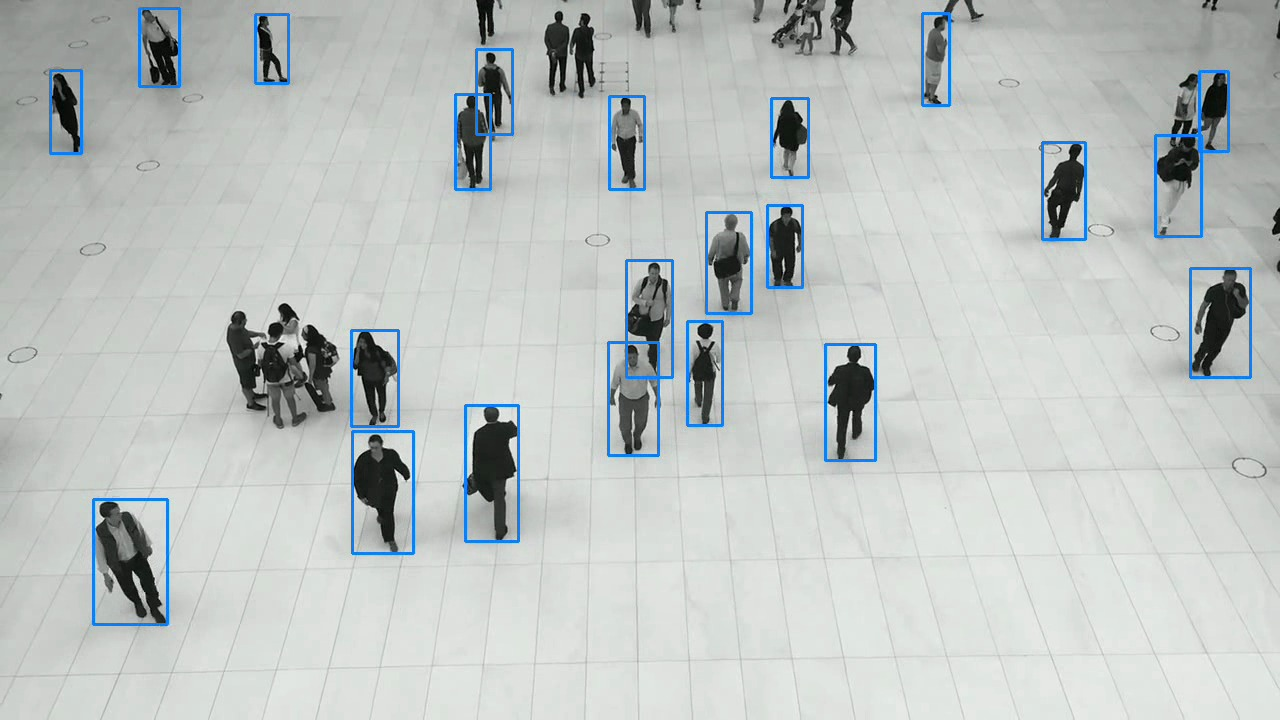
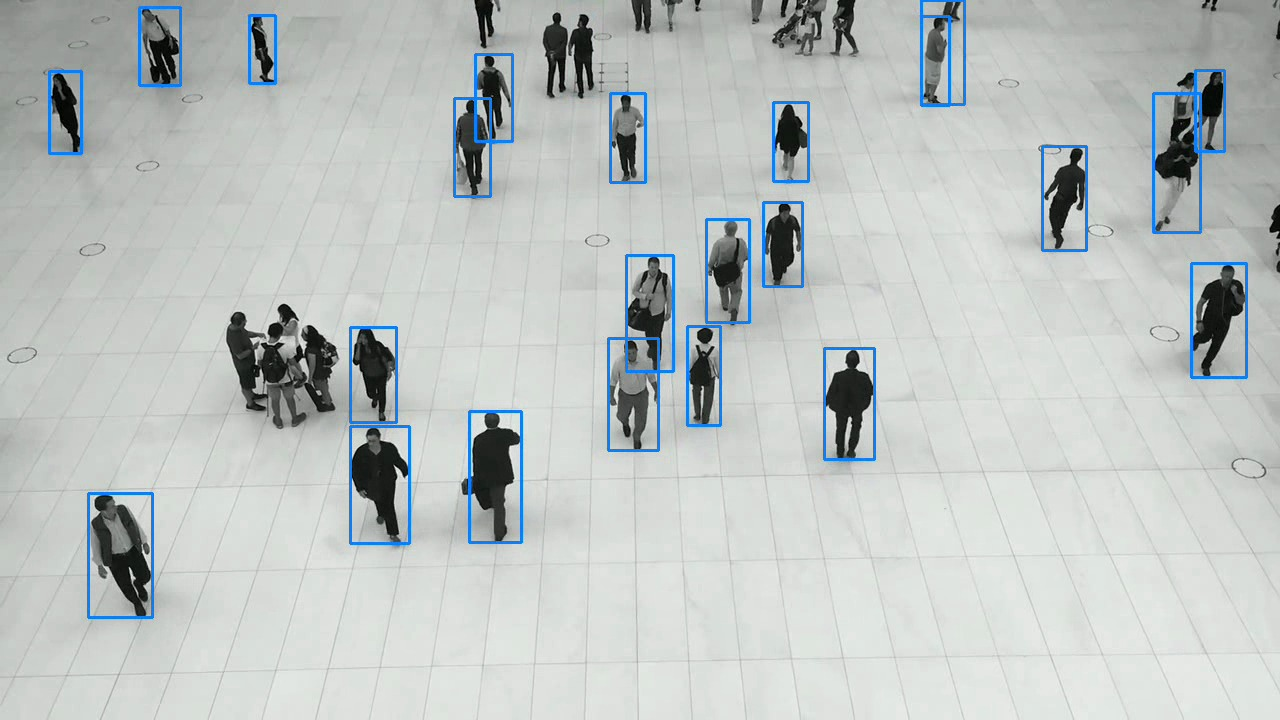
Update utilities docs and changelog for buffer, transforms and sliced inference fixes.

diff --git a/docs/utilities/buffer.md b/docs/utilities/buffer.md
@@ -8,8 +8,8 @@ keywords: pixelflow, frame buffer, temporal context, video delay, moving average
 
 Some decisions about a frame are easier with the frames around it: a count that jumps from one
 frame to the next, a detection that appears for a single frame. `pf.Buffer` keeps the last few
-frames with their results and hands you the one in the middle, a few frames late. For that
-frame, you have both the frames before it and the frames after it.
+frames with their results and hands each one back a few frames late, once the frames after it
+have arrived. For that frame, you have both the frames before it and the frames after it.
 
 ```python
 import pixelflow as pf
@@ -18,6 +18,15 @@ from mayaku import from_pretrained
 predictor = from_pretrained("mayaku-n-det")
 person = predictor.class_names.index("Person")
 buffer = pf.Buffer(frames=5)
+counts = []
+
+
+def process(people, frame):
+    context = buffer.get_temporal_context()
+    window = context["past_results"] + [people] + context["future_results"]
+    counts.append((len(people), sum(len(d) for d in window) / len(window)))
+    writer.write(pf.annotate.box(frame, people))
+
 
 video = pf.VideoReader("crowd.mp4")
 with pf.VideoWriter("crowd-buffered.mp4", like=video) as writer:
@@ -27,68 +36,72 @@ with pf.VideoWriter("crowd-buffered.mp4", like=video) as writer:
         people = detections.filter_by_confidence(0.5).filter_by_class_id(person)
 
         people, frame = buffer.update(people, frame)
-        if not buffer.is_full:
-            continue
+        if frame is not None:
+            process(people, frame)
 
-        context = buffer.get_temporal_context()
-        window = context["past_results"] + [people] + context["future_results"]
-        average = sum(len(d) for d in window) / len(window)
-        if buffer.frames_processed % 50 == 0:
-            print(f"{len(people)} people in this frame, {average:.1f} on average")
+    for people, frame in buffer.flush():
+        process(people, frame)
 
-        frame = pf.annotate.box(frame, people)
-        writer.write(frame)
+print(writer.frames_written)
+for index in (0, 100, 200, 340):
+    count, average = counts[index]
+    print(f"frame {index}: {count} people, {average:.1f} on average")
 ```
 
 ```text
-21 people in this frame, 22.6 on average
-29 people in this frame, 29.2 on average
-23 people in this frame, 23.0 on average
-27 people in this frame, 27.6 on average
-21 people in this frame, 21.6 on average
-16 people in this frame, 16.4 on average
+341
+frame 0: 24 people, 23.7 on average
+frame 100: 29 people, 28.8 on average
+frame 200: 26 people, 26.2 on average
+frame 340: 21 people, 21.6 on average
 ```
 
 ![A frame of a crowded hall seen from above, with a box around each person](/docs/assets/buffer.jpg)
 
-`buffer.update(results, frame)` stores the new frame and its results, and returns the frame and
-results from the middle of the buffer: with `frames=5`, the ones from 2 frames ago. They always
-belong together, so the boxes you draw are the right ones for the frame you draw on.
+`buffer.update(results, frame)` stores the new frame and its results, and returns a frame and
+its results from earlier: with `frames=5`, the ones from 2 frames ago. They always belong
+together, so the boxes you draw are the right ones for the frame you draw on.
 
-`get_temporal_context()` returns the whole buffer around that middle frame. Above, the count of
-each frame is averaged with the 2 frames before and the 2 after. Because the window is centered
-on the frame, the average does not lag behind the crowd, as an average of past frames only
-would.
+`get_temporal_context()` returns the buffer around that frame. Above, the count of each frame is
+averaged with the 2 frames before it and the 2 after. Because the window is centered on the
+frame, the average does not lag behind the crowd, as an average of past frames only would.
 
 ## The first and last frames
 
-Until the buffer is full, `update` returns a black frame and empty `Detections`: with
-`frames=5`, for the first 4 calls. Skip them with `if not buffer.is_full: continue`, as above,
-or the output video starts with black frames.
+For the first 2 calls, nothing is ready: frame 0 needs frames 1 and 2 after it. `update` returns
+`(None, None)`, hence `if frame is not None`. From the third call on, it returns frames 0, 1,
+2 and so on, in order.
 
-The buffer does not return the first 2 and the last 2 frames of the video: the first ones were
-only ever "past" for frame 2, and the last ones are still in the buffer when the loop ends.
-Above, the output video has 337 of the 341 frames.
+When the video ends, the last 2 frames are still in the buffer, waiting for frames that will
+not come. `flush()` returns them. With both, every frame comes out once: above, 341 frames in,
+341 out.
+
+Near the start, a frame has fewer frames before it, and near the end, fewer after it: frame 0
+is averaged over 3 frames, not 5. If your processing needs the full window, check the length
+of `past_results` and `future_results`. `pf.smooth` does this: it smooths only frames with a
+full window, and returns the others as they are.
 
 `buffer.delay` is how many frames late the output is: `frames // 2`. A larger buffer gives more
-context and a longer delay. Use an odd number of frames, so that there is one frame in the
-middle.
+context and a longer delay. Use an odd number of frames, so the frame in the middle has the same
+number of frames on each side.
 
 ## The context
 
-`get_temporal_context()` returns `None` until the buffer is full, then a dictionary:
+`get_temporal_context()` describes the frame `update` or `flush` returned last. It returns
+`None` before the first one, then a dictionary:
 
 | Key | |
 |-----|---|
-| `past_frames`, `past_results` | lists of the frames and results before the middle one, oldest first |
-| `current_frame`, `current_results` | the middle frame and results, the ones `update` returned |
+| `past_frames`, `past_results` | lists of the frames and results before it, oldest first |
+| `current_frame`, `current_results` | the frame and results `update` or `flush` returned |
 | `future_frames`, `future_results` | lists of the frames and results after it, oldest first |
 
 The results can be anything you pass to `update`: `Detections`, a count or a dictionary of your
 own.
 
 `get_buffer_contents()` returns `(results, frames)` as two lists, oldest first. `reset()` empties
-the buffer, for example before the next video.
+the buffer. Calling `update` after `flush()` starts again with an empty buffer, so the frames of
+the next video do not mix with the last one.
 
 ## Parameters
 
@@ -100,8 +113,8 @@ the buffer, for example before the next video.
 
 | Attribute | |
 |-----------|---|
-| `is_full` | whether the buffer holds `frames` frames |
 | `delay` | how many frames late `update` returns: `frames // 2` |
+| `is_full` | whether the buffer holds `frames` frames |
 | `frames_processed` | number of `update` calls since the start or the last `reset()` |
 | `current_size` | number of frames in the buffer now |
 

diff --git a/CHANGELOG.md b/CHANGELOG.md
@@ -16,6 +16,43 @@ and this project adheres to [Semantic Versioning](https://semver.org/spec/v2.0.0
   converter read fixed columns, so every tracked detection had its track id as its
   confidence (1.0, 2.0, ...) and a class taken from the confidence. It now reads
   `boxes.xyxy`, `boxes.conf` and `boxes.cls`.
+- **`inverse_transforms` undoes rotations.** It rebuilt the rotation for the wrong canvas,
+  so a box rotated 30° came back hundreds of pixels away. It now applies the inverse of the
+  matrix `rotate_detections` recorded to boxes, keypoints, outlines and masks. Raster masks
+  are now warped with nearest-neighbour interpolation in both directions.
+- **`inverse_transforms` undoes `add_padding` exactly.** The padding was recomputed from the
+  padded box, so boxes came back smaller ([100, 200, 300, 400] padded by 0.1 came back as
+  [104, 204, 296, 396]). `add_padding` now records the padding in pixels; older history
+  without it is left padded, with a warning.
+- **Round trips through `rotate_detections` and `crop_detections` give the original boxes
+  back.** Both record the box before and after; when the box is unchanged at inversion, the
+  original is restored instead of the larger envelope (rotation) or the cut box (crop).
+  `inverse_transforms` after a crop also puts raster masks back at the original image size.
+- **`crop_detections` cuts boxes at the crop's edge** instead of leaving coordinates outside
+  the cropped image (a box from x = -600 to 34). A crop area past the image is clipped first,
+  so boxes no longer shift by the part that was outside. Keypoints outside the crop are kept,
+  so their positions in the list stay the same. A box that only touches the crop is dropped.
+- **`Buffer` returns every frame.** The first `delay` frames were never returned and the last
+  `delay` stayed in the buffer, so 5 frames of every video were lost with `frames=5`.
+  `update` now returns `(None, None)` while nothing is ready, instead of a black frame and
+  empty `Detections` that ended up in output videos, and returns frame 0 as soon as its
+  future frames have arrived. The new `Buffer.flush()` yields the frames left at the end.
+  Loops that tested `buffer.is_full` should test `frame is None`. `smooth` follows the frame
+  the buffer returned and smooths it only with a full window; frames near the start and end
+  are returned unsmoothed.
+- **`SlicedInference` moves masks, outlines and keypoints to image coordinates**, not only
+  boxes; raster masks are placed on an image-sized canvas. A `detector_func` that returns
+  something other than `Detections` raises `TypeError`; it was silently treated as no
+  detections. `ios_threshold` is now applied as given (it had no effect below 0.9); its
+  default is 0.9, which keeps the previous results. An overlap of 1.0 no longer hangs
+  `generate_slices`. `min_slice_area_ratio` never had an effect: passing it warns, and it
+  will be removed.
+- **`from_pil` returns RGB `uint8` HxWx3 for every PIL mode**: RGBA gave four channels and
+  grayscale two dimensions. An alpha channel is dropped with a warning, as in `read_image`.
+- **Docstrings:** `gamma_correction` said values below 1 brighten; the code brightens above
+  1, and the docstring now says so. The transform docstrings no longer say detections are
+  modified in place (a copy is returned) and no longer read images with `cv2.imread`, which
+  gives BGR.
 
 ### Removed
 

diff --git a/docs/utilities/sliced-inference.md b/docs/utilities/sliced-inference.md
@@ -41,8 +41,10 @@ pf.save_image("street-sliced.jpg", image)
 ![Boxes around many small people at the back of a crowded street, and a man in the front covered by several partial boxes](/docs/assets/sliced-inference.jpg)
 
 `predict` takes the image and a function that turns one slice into `Detections`. It calls that
-function once per slice, here 12 times for 4 columns and 3 rows, and moves each box from slice
-to image coordinates.
+function once per slice, here 12 times for 4 columns and 3 rows, and moves each detection from
+slice to image coordinates: its box, and its mask, outline and keypoints if it has them. A mask
+is placed on an image-sized canvas, so with a segmentation model such as `mayaku-n-seg`,
+[`pf.annotate.mask`](/docs/visualization/mask.md) draws the result on the whole image.
 
 On the whole 1920×1280 image, the model finds 11 objects with a confidence of 0.5 or more,
 8 of them people. On the slices it finds 26, 19 of them people, most at the back of the street.
@@ -60,11 +62,8 @@ scooter. Use slicing
 when the objects you want are small compared to the image, such as people in a wide view,
 vehicles in an aerial photo or defects on a large scan.
 
-Only boxes are moved to image coordinates: masks, outlines and keypoints stay in the
-coordinates of their slice. Use a detection model, not a segmentation or keypoint model.
-
-The function must return `Detections`; anything else is treated as no detections, without an
-error.
+The function must return `Detections`: convert the model's output inside it, as above.
+Anything else raises a `TypeError`.
 
 ## Slice size and overlap
 
@@ -91,7 +90,8 @@ from the highest confidence down, and compares only boxes of the same class:
 - boxes from neighbouring slices overlapping with an IoU above 0.7 × `iou_threshold`
   (0.35 by default) are the same object;
 - other boxes are the same object above `iou_threshold`;
-- a box that lies at least 90% inside another box of the same class is removed.
+- a box that lies more than `ios_threshold` (90% by default) inside another box of the same
+  class is removed.
 
 IoU is the area two boxes share divided by the area they cover together. With
 `merge_mode="nmm"`, duplicates from neighbouring slices are replaced by their average box,
@@ -108,7 +108,7 @@ weighted by confidence, instead of keeping only the best one.
 | `overlap_ratio_h` | `0.2` | vertical overlap between slices, from 0 to 0.9 |
 | `overlap_ratio_w` | `0.2` | horizontal overlap between slices, from 0 to 0.9 |
 | `iou_threshold` | `0.5` | IoU above which two boxes are the same object |
-| `ios_threshold` | `0.5` | share of a box inside another; below 0.9 it has no effect |
+| `ios_threshold` | `0.9` | share of a box inside another above which it is removed |
 | `merge_mode` | `"nms"` | `"nms"` keeps the best box, `"nmm"` averages duplicates |
 
 `slicer.predict(image, detector_func, verbose=False, **detector_kwargs)`:

diff --git a/docs/utilities/transforms.md b/docs/utilities/transforms.md
@@ -29,9 +29,10 @@ pf.save_image("street-crop.jpg", crop)
 ![An 800×600 crop of a street photo with boxes still around the people, the umbrella and the motorcycles in it](/docs/assets/transforms-crop.jpg)
 
 The crop is the area from (600, 400) to (1400, 1000). Of the 11 detections, `crop_detections`
-keeps the 7 whose box touches it, with coordinates measured from the crop's top-left corner.
-Boxes are not cut at the edge of the crop: a box that crosses it keeps its full size, partly
-outside the image, such as the motorcycle on the left, from x = −600 to 34.
+keeps the 7 whose box overlaps it, with coordinates measured from the crop's top-left corner.
+A box that crosses the edge is cut there, so it covers the part of the object that is in the
+crop: the motorcycle on the left, which extends 600 pixels past the crop, becomes a box from
+x = 0 to 34. A crop area that goes past the image is cut to the image first.
 
 ## Resize
 
@@ -95,8 +96,9 @@ pf.save_image("street-rotated.jpg", image)
 A box stays upright: after a rotation, it becomes the smallest upright box around the turned
 one, so it is larger than the object. Masks and keypoints follow the object exactly.
 
-`crop_detections` drops keypoints that fall outside the crop, so the keypoint list of a person
-cut by the crop is shorter.
+`crop_detections` keeps every keypoint, even outside the crop, so each keypoint stays at its
+place in the list; those outside have coordinates below 0 or past the crop's size. Outlines and
+polygon masks are moved but not cut either.
 
 ## Crop around each detection
 
@@ -131,10 +133,16 @@ crop, inside = pf.transform.crop_detections(image, detections, [600, 400, 1400, 
 original = pf.transform.inverse_transforms(inside)
 ```
 
+Every transform is undone exactly: the boxes come back as they were before the first
+transform, and masks come back at the size of the original image. On the street photo, the 10
+detections left after a 15° rotation, a crop and 10% padding all come back to their original
+boxes.
+
+A box loses information in a rotation, which makes it larger, and in a crop, which cuts it, so
+each transform also records the box as it was. If you change a box between the transforms and
+`inverse_transforms`, that record no longer applies, and the box is mapped back by geometry
+alone: after a rotation, it comes back as the upright box around the turned-back box, larger
+than the object.
+
 It works on detections that went through the transforms, not on new results from a model you
 run on the transformed image: those have no history.
-
-In this version, `inverse_transforms` undoes crops and flips exactly, but not rotations or
-`add_padding`: a rotated box comes back in the wrong place, and a padded box comes back
-smaller than it was before padding. Keep the detections from before those transforms instead. A
-cropped mask stays the size of the crop.
